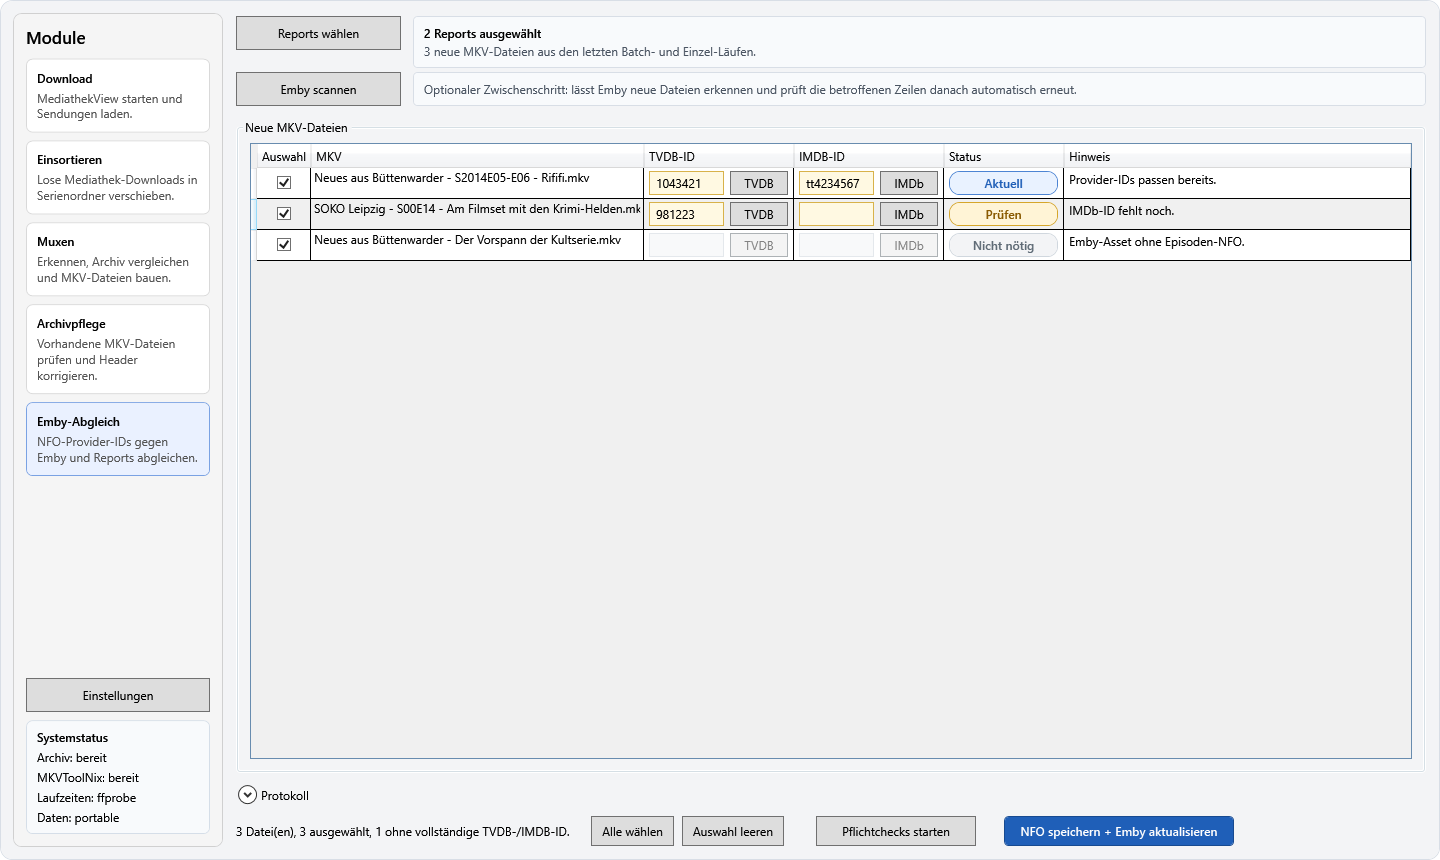
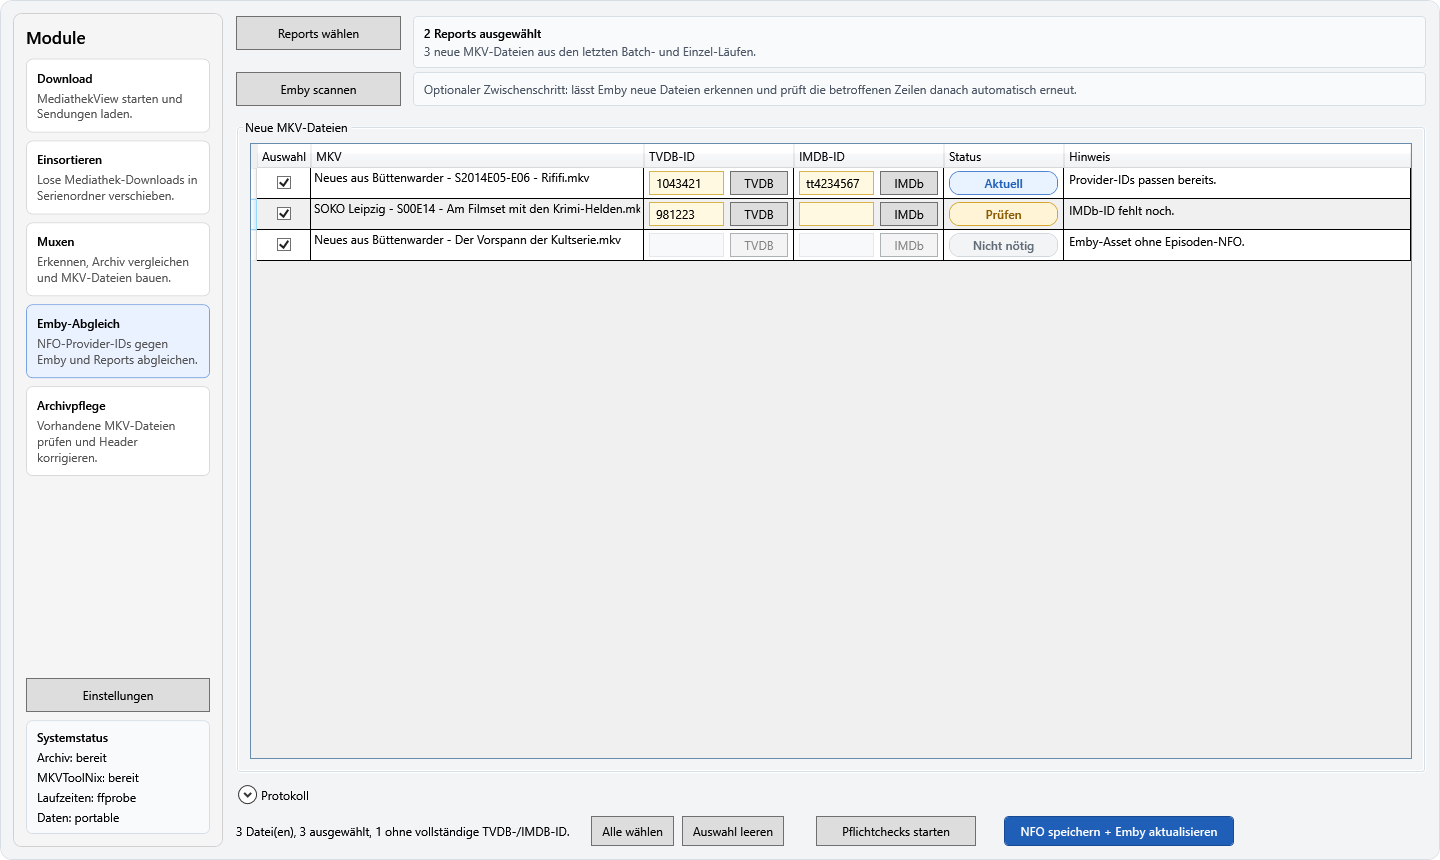
Place archive maintenance after Emby

Changed region(s): [[0.0312, 0.3628, 0.125, 0.5442]]

diff --git a/Composition/UiCompositionModule.cs b/Composition/UiCompositionModule.cs
@@ -110,13 +110,13 @@ internal static class UiCompositionModule
                     "Erkennen, Archiv vergleichen und MKV-Dateien bauen",
                     provider.GetRequiredService<MuxModuleViewModel>()),
                 new ModuleNavigationItem(
-                    "Archivpflege",
-                    "Bestehende MKV-Dateien prüfen und Header korrigieren",
-                    provider.GetRequiredService<ArchiveMaintenanceViewModel>()),
-                new ModuleNavigationItem(
                     "Emby-Abgleich",
                     "Neue MKV-Dateien scannen und NFO-IDs abgleichen",
-                    provider.GetRequiredService<EmbySyncViewModel>())
+                    provider.GetRequiredService<EmbySyncViewModel>()),
+                new ModuleNavigationItem(
+                    "Archivpflege",
+                    "Bestehende MKV-Dateien prüfen und Header korrigieren",
+                    provider.GetRequiredService<ArchiveMaintenanceViewModel>())
             ],
             provider.GetRequiredService<MainWindowModuleServices>()));
     }

diff --git a/tools/ReadmeScreenshotGenerator/DemoData.cs b/tools/ReadmeScreenshotGenerator/DemoData.cs
@@ -505,8 +505,8 @@ internal static class DemoData
             new DemoChoice("Download", "MediathekView starten und Sendungen laden."),
             new DemoChoice("Einsortieren", "Lose Mediathek-Downloads in Serienordner verschieben."),
             new DemoChoice("Muxen", "Erkennen, Archiv vergleichen und MKV-Dateien bauen."),
-            new DemoChoice("Archivpflege", "Vorhandene MKV-Dateien prüfen und Header korrigieren."),
-            new DemoChoice("Emby-Abgleich", "NFO-Provider-IDs gegen Emby und Reports abgleichen.")
+            new DemoChoice("Emby-Abgleich", "NFO-Provider-IDs gegen Emby und Reports abgleichen."),
+            new DemoChoice("Archivpflege", "Vorhandene MKV-Dateien prüfen und Header korrigieren.")
         ];
     }
 }

diff --git a/README.md b/README.md
@@ -31,8 +31,8 @@ Die App ist bewusst auf einen konkreten persönlichen Workflow zugeschnitten. Si
 - `Download`: zum Starten der installierten oder portablen MediathekView-Variante als erstem Workflow-Schritt
 - `Einsortieren`: für lose MediathekView-Dateien, die anhand erkannter Serienordner in Unterordner verschoben werden sollen
 - `Muxen`: gemeinsamer Arbeitsbereich für Einzel- und Batch-Mux mit derselben Erkennungs-, Planungs- und Archivvergleichslogik
-- `Archivpflege`: für bestehende Archiv-MKVs, deren Header oder Dateinamen nachträglich vereinheitlicht werden sollen
 - `Emby-Abgleich`: für neu erzeugte MKV-Dateien, deren NFO-Provider-IDs mit Emby abgeglichen werden sollen
+- `Archivpflege`: für bestehende Archiv-MKVs, deren Header oder Dateinamen nachträglich vereinheitlicht werden sollen
 
 ## Screenshots
 
@@ -91,7 +91,7 @@ Die App ist bewusst portabel gedacht und nicht für eine klassische Installation
    - optional IMDb-Abgleichmodus für den Emby-Dialog
    - optional Emby-Server und API-Key
 3. Im Hauptfenster darunter kurz prüfen, ob `Archiv`, `MKVToolNix` und die Laufzeitermittlung als bereit angezeigt werden.
-4. Danach dem Workflow von oben nach unten folgen: `Download`, `Einsortieren`, `Muxen`, optional `Archivpflege`, danach `Emby-Abgleich`.
+4. Danach dem Workflow von oben nach unten folgen: `Download`, `Einsortieren`, `Muxen`, `Emby-Abgleich` und optional `Archivpflege`.
 
 ## Typischer Workflow: Download
 
